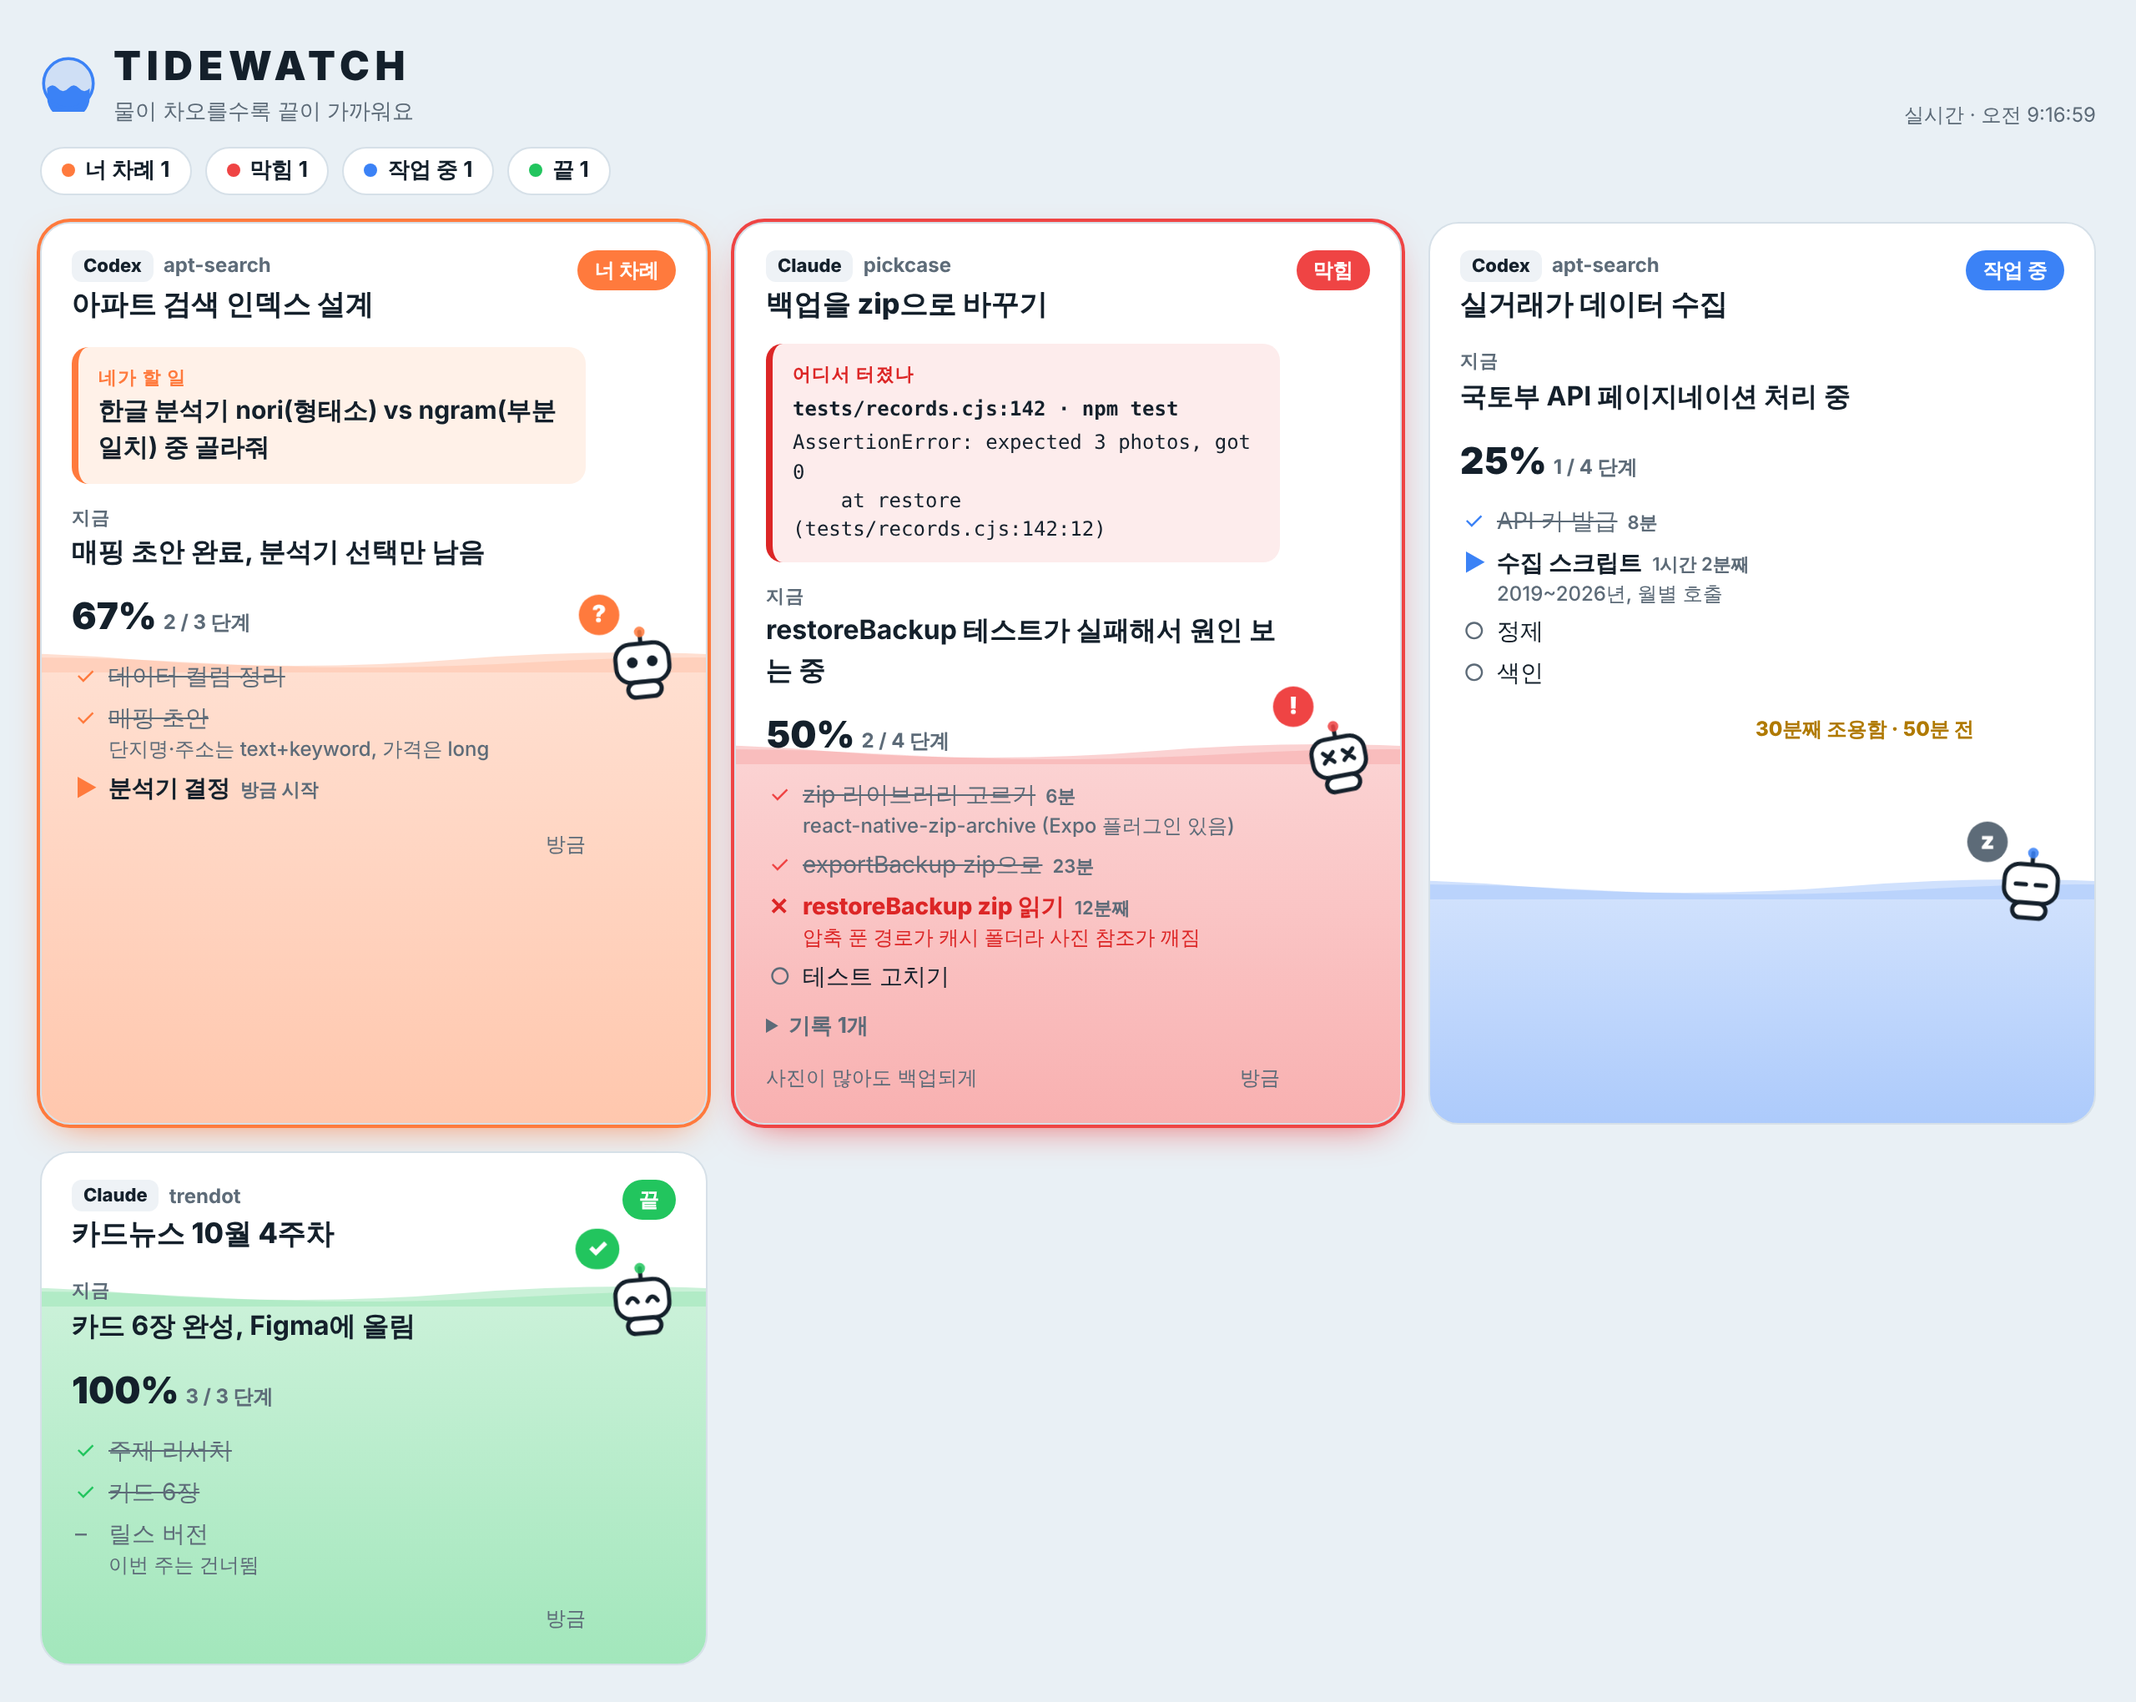
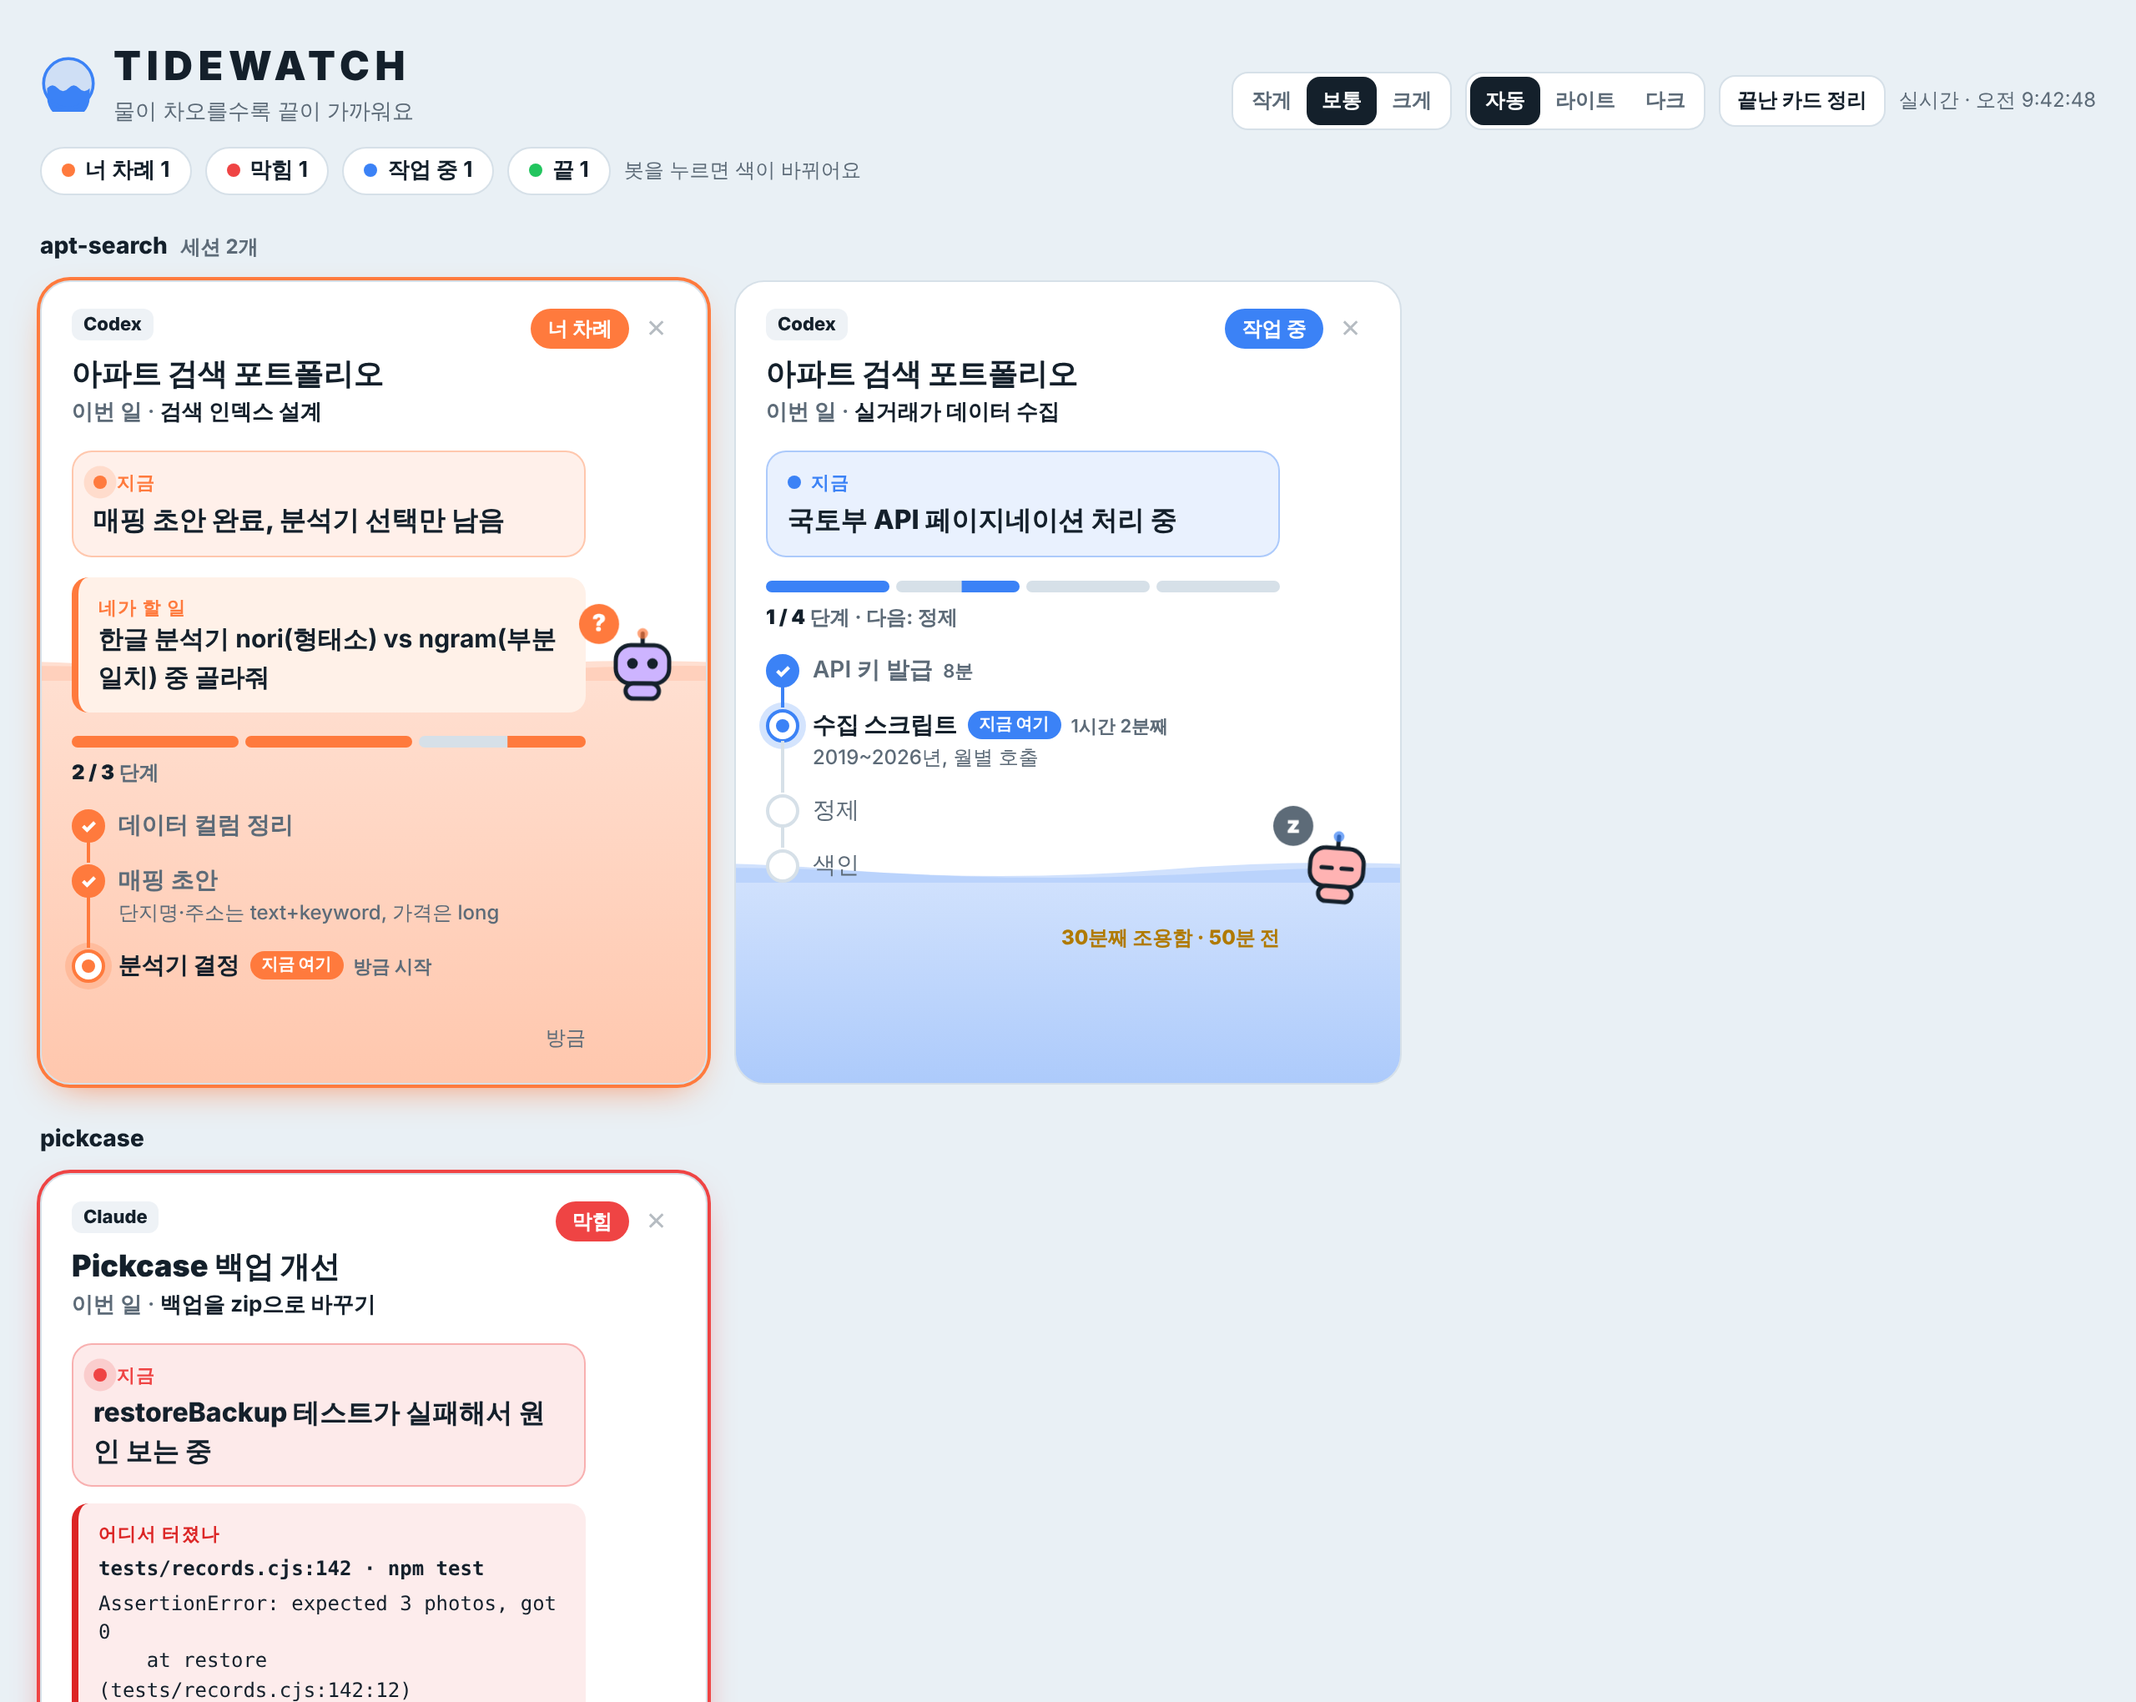
카드를 대주제·이번 일·지금·로드맵 구조로 바꿈
- 큰 제목은 세션의 대주제(title), 그 밑에 이번 일(task)
- '지금'을 상태 색 박스로 강조, 끝나면 '결과'로 표시
- % 대신 칸 나뉜 진행 막대와 '다음: ○○', 세로 로드맵(지금 여기 / 여기서 막힘)
- README 데모 갱신

Claude-Session: https://claude.ai/code/session_01FkzNP2UhfJ4pbXGavVagKS

diff --git a/skills/tidewatch/SKILL.md b/skills/tidewatch/SKILL.md
@@ -15,7 +15,7 @@ description: Tidewatch — 여러 Claude Code·Codex 세션의 진행 상황을 
 
 1. `~/.tidewatch/tidewatch.mjs`가 있는지 확인한다. 없거나 두 번째 줄이 이 스킬 폴더의 `scripts/tidewatch.mjs` 두 번째 줄(`// Tidewatch v3 …`)과 다르면, `scripts/tidewatch.mjs`를 `~/.tidewatch/tidewatch.mjs`로 복사한다. 홈 경로는 `node -e "console.log(require('os').homedir())"`로 확인한다.
 2. 세션 id를 정한다: `<프로젝트폴더명>-<agent>-<영문 소문자·숫자 4글자>` (예: `pickcase-claude-k3f9`). 마지막 4글자는 처음 한 번 무작위로 정한다. 영문 소문자, 숫자, `-`만 쓴다.
-   - **세션 1개 = 카드 1장.** 이 세션이 끝날 때까지 같은 id, 같은 파일만 쓴다. 같은 세션에서 사용자가 새 일을 맡기면 새 카드를 만들지 않고 이 카드의 `title`·`goal`·`steps`를 새 일로 바꾸고, 끝난 일은 `log` 맨 위에 `✓ <끝난 일> — <결과 한 줄>`로 남긴다.
+   - **세션 1개 = 카드 1장.** 이 세션이 끝날 때까지 같은 id, 같은 파일만 쓴다. 같은 세션에서 사용자가 새 일을 맡기면 새 카드를 만들지 않고 이 카드의 `task`·`goal`·`steps`를 새 일로 바꾸고 (주제까지 바뀌면 `title`도), 끝난 일은 `log` 맨 위에 `✓ <끝난 일> — <결과 한 줄>`로 남긴다.
    - 같은 프로젝트에서 세션을 여러 개 돌리면 카드는 세션마다 하나씩이고, 현황판이 `project` 이름으로 알아서 묶어 보여준다. `project`는 프로젝트 폴더 이름을 그대로 쓴다.
 3. 아래 형식으로 `~/.tidewatch/sessions/<id>.json`을 쓰고 `node ~/.tidewatch/tidewatch.mjs build`를 실행한다.
 4. 이 세션에서 처음으로 보드를 만들었고 사용자가 아직 현황판을 안 열었을 것 같으면 `node ~/.tidewatch/tidewatch.mjs app`으로 현황판 창을 한 번 띄운다 (주소창 없는 앱 창, 브라우저를 못 찾으면 기본 브라우저로 열림). 이미 열려 있으면 다시 열지 않는다. 열린 창이 알아서 갱신된다. 사용자는 바탕화면의 Tidewatch 아이콘으로도 열 수 있다.
@@ -30,7 +30,8 @@ description: Tidewatch — 여러 Claude Code·Codex 세션의 진행 상황을 
 {
   "agent": "claude",
   "project": "pickcase",
-  "title": "백업을 zip으로 바꾸기",
+  "title": "Pickcase 백업 개선",
+  "task": "백업을 zip으로 바꾸기",
   "goal": "사진이 많아도 백업되게",
   "status": "blocked",
   "now": "restoreBackup 테스트가 실패해서 원인 보는 중",
@@ -49,15 +50,18 @@ description: Tidewatch — 여러 Claude Code·Codex 세션의 진행 상황을 
 }
 ```
 
+- `title`: **대주제**. 이 세션이 붙잡고 있는 큰 주제(예: "Pickcase 백업 개선", "Tidewatch 다듬기")로, 카드에 제일 크게 뜬다. 세션 안에서 일이 바뀌어도 주제가 같으면 그대로 둔다.
+- `task`: **이번 일**. 대주제 안에서 지금 맡은 구체적인 일 (예: "백업을 zip으로 바꾸기"). 제목 밑에 작게 뜬다. 같은 세션에서 새 일을 맡으면 이걸 바꾼다.
 - `agent`: 지금 이 세션을 돌리는 에이전트. Claude Code면 `"claude"`, Codex면 `"codex"`. 카드에 배지로 뜬다.
 - `status`: `working` 작업 중 / `waiting` 사용자의 답이나 확인이 필요함 / `blocked` 오류나 권한 때문에 더 못 나아감 / `done` 끝
-- `now`: 지금 하는 일 **한 줄**. 돌아온 사람이 제일 먼저 읽는 줄이다.
+- `now`: 지금 하는 일 **한 줄**. 카드에서 색깔 박스로 강조되고, 돌아온 사람이 제일 먼저 읽는 줄이다. `done`이면 "결과"로 표시되니 결과를 한 줄로 쓴다.
 - `needsYou`: 사용자가 해야 할 일이나 답해야 할 질문. 없으면 `""`. `waiting`이면 반드시 채우고, 무엇을 골라야 하는지 또는 무엇을 실행해야 하는지까지 구체적으로 쓴다.
 - `error`: 오류가 났을 때만 넣는다. `where`에는 파일:줄, 명령어, 단계 이름처럼 **어디서** 났는지 쓰고, `message`에는 실제 에러 메시지의 핵심 1~5줄을 쓴다. 고치고 나면 `error`를 빼고 해당 단계를 `doing`이나 `done`으로 바꾼다. 스스로 고칠 수 없는 오류면 `status: "blocked"`로 두고 `needsYou`에 사용자가 할 일을 쓴다.
 - `steps`: 3~8개, 사용자가 알아들을 말로 쓴다. `state`는 `done` / `doing` / `todo` / `error` / `skipped` 중 하나다. `doing`과 `error`는 합쳐서 한 번에 하나만 둔다. `detail`(선택)은 그 단계에서 알아낸 것, 고른 것, 실패한 이유를 한 줄로 쓴다.
 - `log`: 나중에 돌아왔을 때 알아야 할 결정, 발견, 바뀐 방향. 최신을 맨 위에 두고 10개까지만 남긴다. 명령어 출력이나 "파일 읽음" 같은 과정 기록은 넣지 않는다.
 - 시간은 넣지 않는다. 스크립트가 build할 때마다 단계 상태 변화를 기록해서 "4분 걸림", "2분째" 같은 시간을 계산하고, 파일 수정 시간으로 "몇 분 전"을 표시한다.
-- 진행률(물 높이)은 `done`·`skipped` 단계의 비율이다 (`status`가 `done`이면 100%). 단계를 실제로 끝냈을 때만 `done`으로 바꾼다.
+- 카드에는 `steps`가 로드맵으로 뜬다: 칸으로 나뉜 진행 막대, "2 / 4 단계 · 다음: ○○", 그리고 끝난 단계 ✓, 지금 단계 "지금 여기", 오류 단계 "여기서 막힘", 남은 단계 빈 동그라미. 그래서 단계 이름은 로드맵에서 읽기 좋게 짧은 동사구로 쓴다.
+- 물 높이는 `done`·`skipped` 단계의 비율이다 (`status`가 `done`이면 가득). 단계를 실제로 끝냈을 때만 `done`으로 바꾼다.
 
 ### 100%(끝)의 기준
 

diff --git a/README.md b/README.md
@@ -17,7 +17,8 @@ Claude Code와 Codex 세션의 진행 상황을 물이 차오르는 현황판으
 세션을 여러 개 띄워 놓고 일하다 보면, 다른 세션을 보다가 돌아왔을 때 *이 세션이 어디까지 했더라?* 하면서 터미널 로그를 한참 거슬러 올라가게 돼요. Tidewatch는 각 세션이 스스로 상태를 적어 두게 해서, 브라우저 창 하나만 보면 바로 알 수 있게 해 줘요.
 
 - **지금 뭐 하는지**: 카드마다 "지금" 한 줄
-- **어디까지 했는지**: 진행률만큼 물이 차오르고, 단계마다 걸린 시간이 붙어요
+- **어디까지 했는지**: 단계가 로드맵으로 보여요. 끝난 단계 ✓, 지금 단계 "지금 여기", 다음 단계까지. 진행만큼 물이 차오르고 단계마다 걸린 시간이 붙어요
+- **무슨 주제인지**: 큰 제목은 세션의 대주제, 그 밑에 이번에 맡은 일
 - **어디서 터졌는지**: 오류 난 단계는 빨간 ✕, 파일:줄과 에러 메시지가 "어디서 터졌나"에 떠요
 - **내가 뭘 해야 하는지**: 세션이 나를 기다리면 "네가 할 일"과 함께 카드가 맨 위로 올라오고, 탭 제목에 `(2) Tidewatch`처럼 숫자가 떠요
 - **세션 1개 = 카드 1장**: 같은 프로젝트의 세션은 프로젝트 이름 아래로 묶여요
@@ -112,7 +113,8 @@ node ~/.tidewatch/tidewatch.mjs remove <id>
 {
   "agent": "claude",
   "project": "pickcase",
-  "title": "백업을 zip으로 바꾸기",
+  "title": "Pickcase 백업 개선",
+  "task": "백업을 zip으로 바꾸기",
   "status": "blocked",
   "now": "restoreBackup 테스트가 실패해서 원인 보는 중",
   "error": { "where": "tests/records.cjs:142 · npm test", "message": "AssertionError: expected 3 photos, got 0" },
